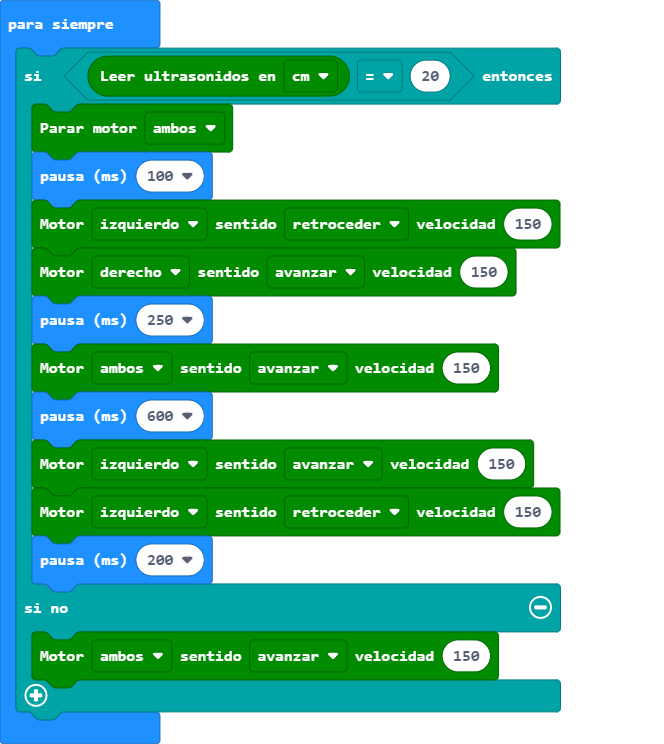
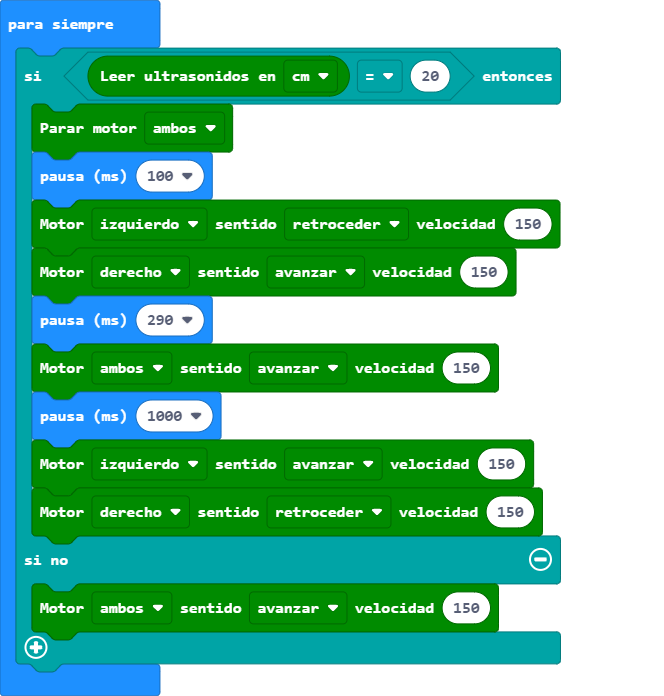
Actualizar main.blocks, main.ts

Changed region(s): [[0.0, 0.0302, 0.8434, 0.9957]]

diff --git a/main.ts b/main.ts
@@ -4,12 +4,11 @@ basic.forever(function () {
         basic.pause(100)
         maqueen.motorRun(maqueen.Motors.M1, maqueen.Dir.CCW, 150)
         maqueen.motorRun(maqueen.Motors.M2, maqueen.Dir.CW, 150)
-        basic.pause(250)
+        basic.pause(290)
         maqueen.motorRun(maqueen.Motors.All, maqueen.Dir.CW, 150)
-        basic.pause(600)
+        basic.pause(1000)
         maqueen.motorRun(maqueen.Motors.M1, maqueen.Dir.CW, 150)
-        maqueen.motorRun(maqueen.Motors.M1, maqueen.Dir.CCW, 150)
-        basic.pause(200)
+        maqueen.motorRun(maqueen.Motors.M2, maqueen.Dir.CCW, 150)
     } else {
         maqueen.motorRun(maqueen.Motors.All, maqueen.Dir.CW, 150)
     }
